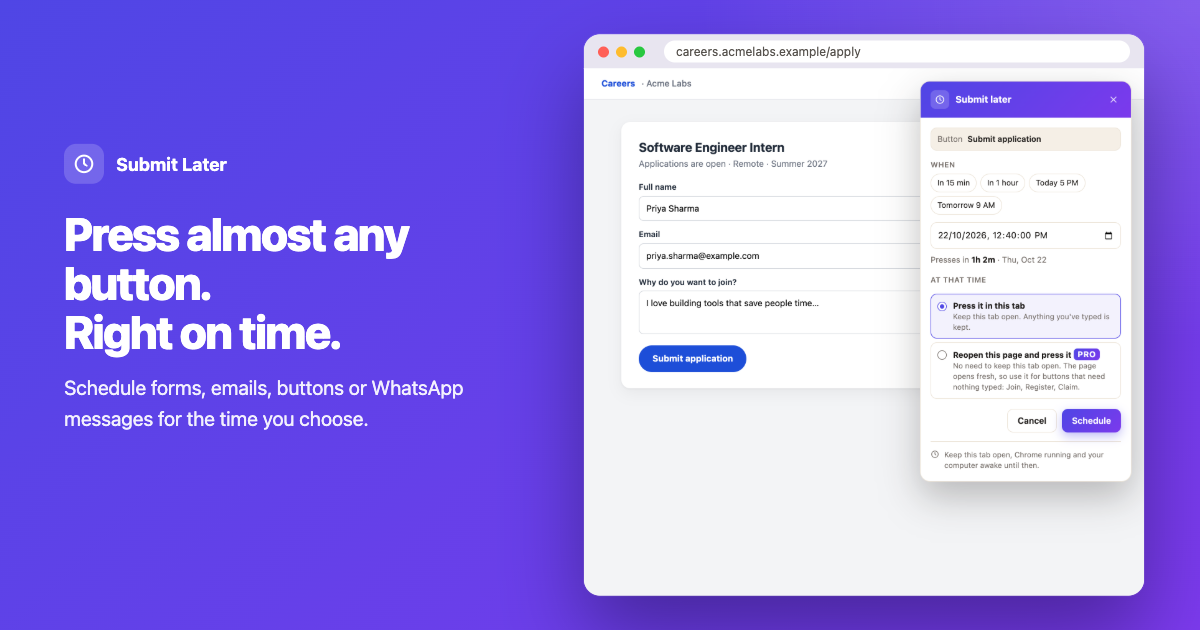
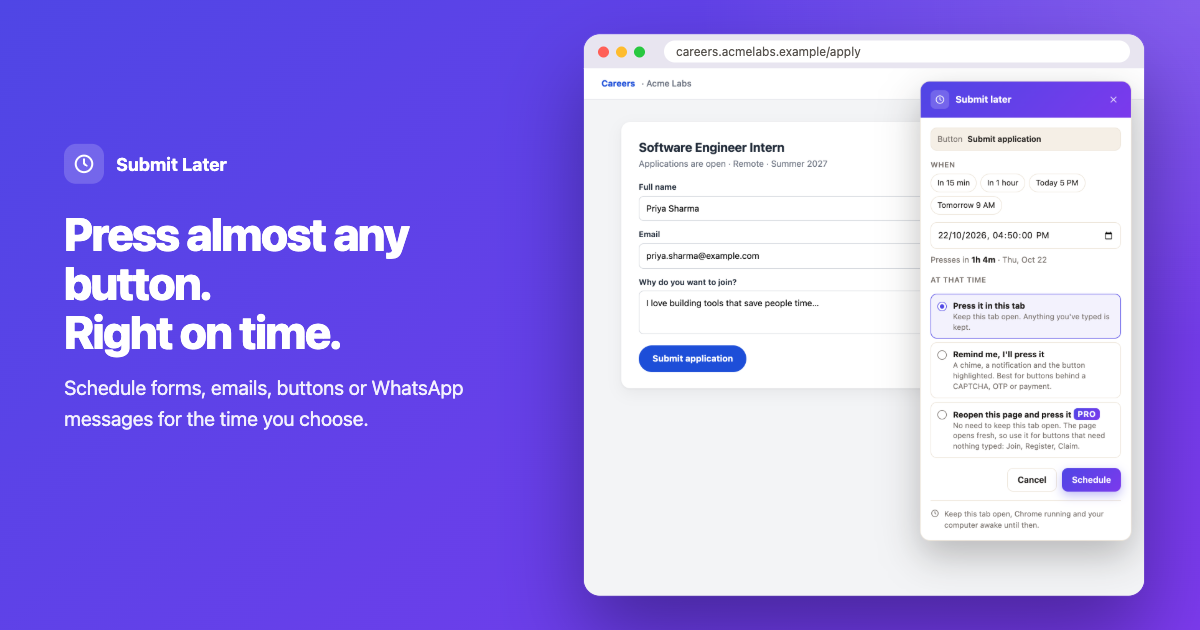
Action Flows (0.8.0): home section, FAQ, pricing bullet, privacy; admin installs note

Changed region(s): [[0.7708, 0.5429, 0.9558, 0.9048], [0.8325, 0.3619, 0.8633, 0.3921]]

diff --git a/pricing.html b/pricing.html
@@ -68,7 +68,7 @@
     <p class="for">For the occasional deadline</p>
     <div class="amount">₹0 <small>forever</small></div>
     <p class="equiv">5 scheduled buttons a month</p>
-    <ul><li><svg viewBox="0 0 24 24" fill="none" stroke="currentColor" stroke-width="2.6" stroke-linecap="round" stroke-linejoin="round"><path d="M20 6L9 17l-5-5"/></svg><span><b>5 scheduled buttons</b> every month</span></li><li><svg viewBox="0 0 24 24" fill="none" stroke="currentColor" stroke-width="2.6" stroke-linecap="round" stroke-linejoin="round"><path d="M20 6L9 17l-5-5"/></svg><span>Press any button in an open tab, to the second</span></li><li><svg viewBox="0 0 24 24" fill="none" stroke="currentColor" stroke-width="2.6" stroke-linecap="round" stroke-linejoin="round"><path d="M20 6L9 17l-5-5"/></svg><span>Real clicks that work on Gmail and web apps</span></li><li><svg viewBox="0 0 24 24" fill="none" stroke="currentColor" stroke-width="2.6" stroke-linecap="round" stroke-linejoin="round"><path d="M20 6L9 17l-5-5"/></svg><span>Keeps your computer awake until the time</span></li><li><svg viewBox="0 0 24 24" fill="none" stroke="currentColor" stroke-width="2.6" stroke-linecap="round" stroke-linejoin="round"><path d="M20 6L9 17l-5-5"/></svg><span>Heads-up 10 minutes early if something is wrong</span></li><li><svg viewBox="0 0 24 24" fill="none" stroke="currentColor" stroke-width="2.6" stroke-linecap="round" stroke-linejoin="round"><path d="M20 6L9 17l-5-5"/></svg><span>Notifications and result history</span></li></ul>
+    <ul><li><svg viewBox="0 0 24 24" fill="none" stroke="currentColor" stroke-width="2.6" stroke-linecap="round" stroke-linejoin="round"><path d="M20 6L9 17l-5-5"/></svg><span><b>5 scheduled buttons</b> every month</span></li><li><svg viewBox="0 0 24 24" fill="none" stroke="currentColor" stroke-width="2.6" stroke-linecap="round" stroke-linejoin="round"><path d="M20 6L9 17l-5-5"/></svg><span><b>Unlimited reminders</b>: a chime when it's time to press it yourself</span></li><li><svg viewBox="0 0 24 24" fill="none" stroke="currentColor" stroke-width="2.6" stroke-linecap="round" stroke-linejoin="round"><path d="M20 6L9 17l-5-5"/></svg><span>Press any button in an open tab, to the second</span></li><li><svg viewBox="0 0 24 24" fill="none" stroke="currentColor" stroke-width="2.6" stroke-linecap="round" stroke-linejoin="round"><path d="M20 6L9 17l-5-5"/></svg><span>Real clicks that work on Gmail and web apps</span></li><li><svg viewBox="0 0 24 24" fill="none" stroke="currentColor" stroke-width="2.6" stroke-linecap="round" stroke-linejoin="round"><path d="M20 6L9 17l-5-5"/></svg><span>Keeps your computer awake until the time</span></li><li><svg viewBox="0 0 24 24" fill="none" stroke="currentColor" stroke-width="2.6" stroke-linecap="round" stroke-linejoin="round"><path d="M20 6L9 17l-5-5"/></svg><span>Heads-up 10 minutes early if something is wrong</span></li><li><svg viewBox="0 0 24 24" fill="none" stroke="currentColor" stroke-width="2.6" stroke-linecap="round" stroke-linejoin="round"><path d="M20 6L9 17l-5-5"/></svg><span>Notifications and result history</span></li></ul>
     <a class="btn alt" href="signup.html" data-plan-link>Create free account</a>
   </div>
   <div class="tier best">
@@ -77,7 +77,7 @@
     <p class="for">Best for regular use</p>
     <div class="amount">₹399 <small>/ year</small></div>
     <p class="equiv">Just ₹33 a month · <b>save 32%</b></p>
-    <ul><li><svg viewBox="0 0 24 24" fill="none" stroke="currentColor" stroke-width="2.6" stroke-linecap="round" stroke-linejoin="round"><path d="M20 6L9 17l-5-5"/></svg><span><b>Unlimited</b> scheduled buttons</span></li><li><svg viewBox="0 0 24 24" fill="none" stroke="currentColor" stroke-width="2.6" stroke-linecap="round" stroke-linejoin="round"><path d="M20 6L9 17l-5-5"/></svg><span><b>Reopen &amp; press</b>: no tab needs to stay open</span></li><li><svg viewBox="0 0 24 24" fill="none" stroke="currentColor" stroke-width="2.6" stroke-linecap="round" stroke-linejoin="round"><path d="M20 6L9 17l-5-5"/></svg><span><b>Repeat</b> every day, weekday or week</span></li><li><svg viewBox="0 0 24 24" fill="none" stroke="currentColor" stroke-width="2.6" stroke-linecap="round" stroke-linejoin="round"><path d="M20 6L9 17l-5-5"/></svg><span><b>WhatsApp Web</b> message scheduler</span></li><li><svg viewBox="0 0 24 24" fill="none" stroke="currentColor" stroke-width="2.6" stroke-linecap="round" stroke-linejoin="round"><path d="M20 6L9 17l-5-5"/></svg><span><b>Wait until ready</b>, with auto-reload</span></li><li><svg viewBox="0 0 24 24" fill="none" stroke="currentColor" stroke-width="2.6" stroke-linecap="round" stroke-linejoin="round"><path d="M20 6L9 17l-5-5"/></svg><span>Everything in Free</span></li><li><svg viewBox="0 0 24 24" fill="none" stroke="currentColor" stroke-width="2.6" stroke-linecap="round" stroke-linejoin="round"><path d="M20 6L9 17l-5-5"/></svg><span>Priority email support</span></li></ul>
+    <ul><li><svg viewBox="0 0 24 24" fill="none" stroke="currentColor" stroke-width="2.6" stroke-linecap="round" stroke-linejoin="round"><path d="M20 6L9 17l-5-5"/></svg><span><b>Unlimited</b> scheduled buttons</span></li><li><svg viewBox="0 0 24 24" fill="none" stroke="currentColor" stroke-width="2.6" stroke-linecap="round" stroke-linejoin="round"><path d="M20 6L9 17l-5-5"/></svg><span><b>Reopen &amp; press</b>: no tab needs to stay open</span></li><li><svg viewBox="0 0 24 24" fill="none" stroke="currentColor" stroke-width="2.6" stroke-linecap="round" stroke-linejoin="round"><path d="M20 6L9 17l-5-5"/></svg><span><b>Action Flows</b>: record a few steps and run them on a schedule</span></li><li><svg viewBox="0 0 24 24" fill="none" stroke="currentColor" stroke-width="2.6" stroke-linecap="round" stroke-linejoin="round"><path d="M20 6L9 17l-5-5"/></svg><span><b>Repeat</b> every day, weekday or week</span></li><li><svg viewBox="0 0 24 24" fill="none" stroke="currentColor" stroke-width="2.6" stroke-linecap="round" stroke-linejoin="round"><path d="M20 6L9 17l-5-5"/></svg><span><b>WhatsApp Web</b> message scheduler</span></li><li><svg viewBox="0 0 24 24" fill="none" stroke="currentColor" stroke-width="2.6" stroke-linecap="round" stroke-linejoin="round"><path d="M20 6L9 17l-5-5"/></svg><span><b>Wait until ready</b>, with auto-reload</span></li><li><svg viewBox="0 0 24 24" fill="none" stroke="currentColor" stroke-width="2.6" stroke-linecap="round" stroke-linejoin="round"><path d="M20 6L9 17l-5-5"/></svg><span>Everything in Free</span></li><li><svg viewBox="0 0 24 24" fill="none" stroke="currentColor" stroke-width="2.6" stroke-linecap="round" stroke-linejoin="round"><path d="M20 6L9 17l-5-5"/></svg><span>Priority email support</span></li></ul>
     <a class="btn primary" href="signup.html?plan=annual" data-plan-link>Choose Pro Annual</a>
   </div>
   <div class="tier">
@@ -86,7 +86,7 @@
     <p class="for">Good for a one-off project</p>
     <div class="amount">₹49 <small>/ month</small></div>
     <p class="equiv">Billed ₹49 for 30 days</p>
-    <ul><li><svg viewBox="0 0 24 24" fill="none" stroke="currentColor" stroke-width="2.6" stroke-linecap="round" stroke-linejoin="round"><path d="M20 6L9 17l-5-5"/></svg><span><b>Unlimited</b> scheduled buttons</span></li><li><svg viewBox="0 0 24 24" fill="none" stroke="currentColor" stroke-width="2.6" stroke-linecap="round" stroke-linejoin="round"><path d="M20 6L9 17l-5-5"/></svg><span><b>Reopen &amp; press</b>: no tab needs to stay open</span></li><li><svg viewBox="0 0 24 24" fill="none" stroke="currentColor" stroke-width="2.6" stroke-linecap="round" stroke-linejoin="round"><path d="M20 6L9 17l-5-5"/></svg><span><b>Repeat</b> every day, weekday or week</span></li><li><svg viewBox="0 0 24 24" fill="none" stroke="currentColor" stroke-width="2.6" stroke-linecap="round" stroke-linejoin="round"><path d="M20 6L9 17l-5-5"/></svg><span><b>WhatsApp Web</b> message scheduler</span></li><li><svg viewBox="0 0 24 24" fill="none" stroke="currentColor" stroke-width="2.6" stroke-linecap="round" stroke-linejoin="round"><path d="M20 6L9 17l-5-5"/></svg><span><b>Wait until ready</b>, with auto-reload</span></li><li><svg viewBox="0 0 24 24" fill="none" stroke="currentColor" stroke-width="2.6" stroke-linecap="round" stroke-linejoin="round"><path d="M20 6L9 17l-5-5"/></svg><span>Everything in Free</span></li><li><svg viewBox="0 0 24 24" fill="none" stroke="currentColor" stroke-width="2.6" stroke-linecap="round" stroke-linejoin="round"><path d="M20 6L9 17l-5-5"/></svg><span>Email support</span></li></ul>
+    <ul><li><svg viewBox="0 0 24 24" fill="none" stroke="currentColor" stroke-width="2.6" stroke-linecap="round" stroke-linejoin="round"><path d="M20 6L9 17l-5-5"/></svg><span><b>Unlimited</b> scheduled buttons</span></li><li><svg viewBox="0 0 24 24" fill="none" stroke="currentColor" stroke-width="2.6" stroke-linecap="round" stroke-linejoin="round"><path d="M20 6L9 17l-5-5"/></svg><span><b>Reopen &amp; press</b>: no tab needs to stay open</span></li><li><svg viewBox="0 0 24 24" fill="none" stroke="currentColor" stroke-width="2.6" stroke-linecap="round" stroke-linejoin="round"><path d="M20 6L9 17l-5-5"/></svg><span><b>Action Flows</b>: record a few steps and run them on a schedule</span></li><li><svg viewBox="0 0 24 24" fill="none" stroke="currentColor" stroke-width="2.6" stroke-linecap="round" stroke-linejoin="round"><path d="M20 6L9 17l-5-5"/></svg><span><b>Repeat</b> every day, weekday or week</span></li><li><svg viewBox="0 0 24 24" fill="none" stroke="currentColor" stroke-width="2.6" stroke-linecap="round" stroke-linejoin="round"><path d="M20 6L9 17l-5-5"/></svg><span><b>WhatsApp Web</b> message scheduler</span></li><li><svg viewBox="0 0 24 24" fill="none" stroke="currentColor" stroke-width="2.6" stroke-linecap="round" stroke-linejoin="round"><path d="M20 6L9 17l-5-5"/></svg><span><b>Wait until ready</b>, with auto-reload</span></li><li><svg viewBox="0 0 24 24" fill="none" stroke="currentColor" stroke-width="2.6" stroke-linecap="round" stroke-linejoin="round"><path d="M20 6L9 17l-5-5"/></svg><span>Everything in Free</span></li><li><svg viewBox="0 0 24 24" fill="none" stroke="currentColor" stroke-width="2.6" stroke-linecap="round" stroke-linejoin="round"><path d="M20 6L9 17l-5-5"/></svg><span>Email support</span></li></ul>
     <a class="btn alt" href="signup.html?plan=monthly" data-plan-link>Choose Pro Monthly</a>
   </div>
 </div>
@@ -106,6 +106,7 @@
         <tr><td>Schedule WhatsApp Web messages</td><td>–</td><td class="yes">✓</td></tr>
         <tr><td>WhatsApp to up to 20 people, with photos and videos</td><td>–</td><td class="yes">✓</td></tr>
         <tr><td>Wait until the button is ready, with auto-reload</td><td>–</td><td class="yes">✓</td></tr>
+        <tr><td>Remind me at the time (chime, notification, button highlighted)</td><td class="yes">Unlimited</td><td class="yes">Unlimited + repeats</td></tr>
       </tbody>
     </table>
   </div>

diff --git a/index.html b/index.html
@@ -208,6 +208,32 @@
       </div>
     </div>
   </div>
+  <div class="spot">
+    <div class="spot-text">
+      <span class="pro-badge">PRO</span>
+      <h3>Action Flows: a few steps, done for you</h3>
+      <p>Some tasks take more than one button. Do it once while Submit Later records the steps, or build them step by step, then let it run at the time you pick: once, every day, or every so often between two times.</p>
+      <ul class="ticks">
+        <li><svg viewBox="0 0 24 24" fill="none" stroke="currentColor" stroke-width="3" stroke-linecap="round" stroke-linejoin="round"><path d="M20 6L9 17l-5-5"/></svg><span>Click, type, choose from a list, tick a box</span></li>
+        <li><svg viewBox="0 0 24 24" fill="none" stroke="currentColor" stroke-width="3" stroke-linecap="round" stroke-linejoin="round"><path d="M20 6L9 17l-5-5"/></svg><span>Simple logic: "Only if…", "Repeat for each option until one works", "Ask me first"</span></li>
+        <li><svg viewBox="0 0 24 24" fill="none" stroke="currentColor" stroke-width="3" stroke-linecap="round" stroke-linejoin="round"><path d="M20 6L9 17l-5-5"/></svg><span>Test runs never press the final button. Passwords and codes are never stored</span></li>
+      </ul>
+    </div>
+    <div class="spot-visual">
+      <div class="mock-ui" role="img" aria-label="An Action Flow in Submit Later: open the page, type today's notes, choose a team, then ask before pressing Submit, every weekday at 6 PM.">
+        <div class="mui-card">
+          <div class="mui-head"><svg viewBox="0 0 24 24" fill="none" stroke="currentColor" stroke-width="2" stroke-linecap="round" stroke-linejoin="round"><circle cx="6" cy="6" r="2.5"/><circle cx="18" cy="18" r="2.5"/><path d="M8.5 6H14a4 4 0 0 1 0 8h-4a4 4 0 0 0 0 8"/></svg> Daily progress report</div>
+          <div class="mui-body">
+            <div class="mui-row"><span class="mui-txt"><b>1. Open</b><small>intranet.example.com/report</small></span></div>
+            <div class="mui-row"><span class="mui-txt"><b>2. Type</b><small>"Finished the home page…" in "Notes"</small></span></div>
+            <div class="mui-row"><span class="mui-txt"><b>3. Choose</b><small>"Design" in "Team"</small></span></div>
+            <div class="mui-row"><span class="mui-txt"><b>4. Click "Submit"</b><small>Asks you first</small></span><span class="mui-tag warn">Ask me</span></div>
+            <div class="mui-time"><svg viewBox="0 0 24 24" fill="none" stroke="currentColor" stroke-width="2" stroke-linecap="round" stroke-linejoin="round"><circle cx="12" cy="12" r="9"/><path d="M12 7v5l3 2"/></svg> <span>Weekdays at <b>6:00 PM</b></span></div>
+          </div>
+        </div>
+      </div>
+    </div>
+  </div>
 </section>
 
 <section id="uses" class="block">
@@ -254,6 +280,7 @@
     <div class="feature"><span class="ic g2"><svg viewBox="0 0 24 24" fill="none" stroke="currentColor" stroke-width="2" stroke-linecap="round" stroke-linejoin="round"><path d="M13 2L3 14h9l-1 8 10-12h-9z"/></svg></span><div><b>Real clicks</b><p>A genuine mouse click, so Gmail, WhatsApp Web and modern web apps respond just like when you click.</p></div></div>
     <div class="feature"><span class="ic g3"><svg viewBox="0 0 24 24" fill="none" stroke="currentColor" stroke-width="2" stroke-linecap="round" stroke-linejoin="round"><path d="M21 12.8A9 9 0 1 1 11.2 3a7 7 0 0 0 9.8 9.8z"/></svg></span><div><b>Keeps your computer awake</b><p>While something is scheduled, your computer won't fall asleep and miss it. Free and Pro.</p></div></div>
     <div class="feature"><span class="ic g5"><svg viewBox="0 0 24 24" fill="none" stroke="currentColor" stroke-width="2" stroke-linecap="round" stroke-linejoin="round"><path d="M6 8a6 6 0 1 1 12 0c0 7 3 9 3 9H3s3-2 3-9"/><path d="M10 21h4"/></svg></span><div><b>A heads-up 10 minutes early</b><p>Signed out? Field empty? Page reloaded? You're warned while there's still time to fix it.</p></div></div>
+    <div class="feature"><span class="ic g4"><svg viewBox="0 0 24 24" fill="none" stroke="currentColor" stroke-width="2" stroke-linecap="round" stroke-linejoin="round"><circle cx="12" cy="13" r="8"/><path d="M12 9v4l2 2M5 3L2 6M22 6l-3-3"/></svg></span><div><b>Or just remind me</b><p>For buttons behind a CAPTCHA, OTP or payment: at the time you get a chime, a notification and the button highlighted, and you press it. Free and unlimited.</p></div></div>
     <div class="feature"><span class="ic g4"><svg viewBox="0 0 24 24" fill="none" stroke="currentColor" stroke-width="2" stroke-linecap="round" stroke-linejoin="round"><path d="M12 22s8-4 8-10V5l-8-3-8 3v7c0 6 8 10 8 10z"/></svg></span><div><b>Private by design</b><p>What you schedule stays on your computer. It only works on the sites you choose. No tracking, no ads.</p></div></div>
   </div>
 </section>
@@ -270,8 +297,8 @@
     <p>Every new account gets 30 days of Pro free. No card, and nothing renews by itself.</p>
   </div>
   <div class="mini-tiers">
-    <div class="mt"><h3>Free</h3><div class="amt">₹0 <small>forever</small></div><p>5 scheduled buttons every month, in an open tab.</p><a class="btn alt" href="signup.html" data-plan-link>Create free account</a></div>
-    <div class="mt best"><span class="rib">Best value</span><h3>Pro Annual</h3><div class="amt">₹399 <small>/ year</small></div><p>Just ₹33 a month. Unlimited, plus WhatsApp, repeats and reopen &amp; press.</p><a class="btn primary" href="signup.html?plan=annual" data-plan-link>Choose Pro Annual</a></div>
+    <div class="mt"><h3>Free</h3><div class="amt">₹0 <small>forever</small></div><p>5 scheduled buttons every month, in an open tab, plus unlimited reminders.</p><a class="btn alt" href="signup.html" data-plan-link>Create free account</a></div>
+    <div class="mt best"><span class="rib">Best value</span><h3>Pro Annual</h3><div class="amt">₹399 <small>/ year</small></div><p>Just ₹33 a month. Unlimited, plus WhatsApp, repeats, reopen &amp; press and Action Flows.</p><a class="btn primary" href="signup.html?plan=annual" data-plan-link>Choose Pro Annual</a></div>
     <div class="mt"><h3>Pro Monthly</h3><div class="amt">₹49 <small>/ month</small></div><p>Every Pro feature for 30 days. Good for a one-off project.</p><a class="btn alt" href="signup.html?plan=monthly" data-plan-link>Choose Pro Monthly</a></div>
   </div>
   <p class="price-foot">Prices in INR, including all taxes. <a href="pricing.html">Compare plans in detail →</a></p>
@@ -284,6 +311,8 @@
     <details><summary>What if my computer goes to sleep?</summary><p>While something is scheduled, Submit Later keeps your computer awake (the screen can still turn off). Closing a laptop lid still puts it to sleep, so leave it open or plugged in with the lid up.</p></details>
     <details><summary>Does it work with WhatsApp?</summary><p>Yes. With Pro you can schedule WhatsApp Web messages to any number or imported contact, once or on repeat: to up to 20 people at a time, several messages each, with photos and videos up to 16 MB. Stay signed in to WhatsApp Web on that computer. <a href="whatsapp-scheduler.html">Read more</a>.</p></details>
     <details><summary>Is my data safe?</summary><p>What you schedule (pages, buttons, messages) stays on your computer. Your account only stores your name, email and plan. See the <a href="privacy.html">privacy policy</a>.</p></details>
+    <details><summary>Can it remind me instead of pressing?</summary><p>Yes. Choose <b>Remind me, I'll press it</b> in the scheduling box. At the time Submit Later plays a chime, shows a notification and highlights the button, and you press it yourself. It's made for buttons behind a CAPTCHA, OTP or payment. One-time reminders are free and unlimited; repeating ones are Pro.</p></details>
+    <details><summary>Can it do a few steps, not just one button?</summary><p>Yes, with Pro's <b>Action Flows</b>. Open the extension, choose <b>Automate steps on a site</b>, and do the task once while it records (or add the steps yourself). You can add "Only if…", "Repeat for each…" and "Ask me" steps, test it safely (a test run never presses the final button), and run it once, daily or every so often between two times. It works only on the sites you allow, never stores passwords or codes, and never solves CAPTCHAs.</p></details>
     <details><summary>What can't it do?</summary><p>It can't solve CAPTCHAs, sign in for you, or bypass a site's rules, and it won't send bulk messages. It presses buttons you could press yourself.</p></details>
   </div>
 </section>

diff --git a/privacy.html b/privacy.html
@@ -83,6 +83,9 @@
   <h2>What the extension reads on web pages</h2>
   <p>It runs only on a tab where you start the button picker yourself, and, with Pro's "reopen and press" or WhatsApp scheduling, on the specific sites you allow when you set that up (Chrome asks you each time; you can remove access in <code>chrome://extensions</code>). It reads just enough of that page to let you pick a button, check that required fields are filled, and press the button at the time you chose. It doesn't read or store what you type into forms.</p>
 
+  <h2>Action Flows (Pro)</h2>
+  <p>If you set up an Action Flow, the extension stores it on your device only: its name, the website, the steps (what to click, the text to type, the options to choose), when it runs and the results of its last 200 runs. The text you enter for a step is typed only into that website and is never sent to us. Passwords, one-time codes, card numbers and ID numbers are never recorded or typed; the flow asks you to fill those in yourself. A flow works only on the websites you allowed for it and pauses if a site shows a CAPTCHA, which it never solves. You can delete every flow and run from the Flows page, and everything is deleted when you uninstall.</p>
+
   <h2>Reliable clicking</h2>
   <p>When "Reliable clicking" is on (the default), the extension uses Chrome's debugger permission only to send a single mouse click to the button you picked, at the time you scheduled, and then detaches immediately. It isn't used to read page content or network traffic.</p>
 
@@ -100,6 +103,9 @@
 
   <h2>This website</h2>
   <p>When you log in, the website keeps your sign-in session in your browser's local storage. It uses Google Analytics, which sets cookies to count visits and see which pages are used (pages visited, rough location, device and browser type). Only the page address without any link codes is sent, and no account details. You can block it with your browser's privacy settings or Google's opt-out add-on (tools.google.com/dlpage/gaoptout). It doesn't use advertising cookies. The sign-up and login pages load Google's sign-in script from Google.</p>
+
+  <h2>Anonymous usage and error reports</h2>
+  <p>Unless you turn off "Send anonymous usage and error reports" in the extension's Settings, the extension sends us a check-in when it's installed or updated and once a day (a random install ID, the extension version and the Chrome version), and a short report when a scheduled press, reopen or WhatsApp send fails or a reminder is missed (the kind of error, our own error text with button names and numbers removed, the version, and the website's domain only). It never sends web addresses, page content, form data, messages, contacts or account details, and it isn't linked to your account. When you uninstall, the page Chrome opens records the uninstall for that install ID. Error reports are deleted after 90 days; an install's check-in record is deleted 90 days after its last check-in. Private addresses (intranets, IP addresses) are never reported.</p>
 
   <h2>Problem reports and reviews</h2>
   <p>A problem report is sent only when you press "Submit problem" in the extension, and you can see everything in it first: your description, any links and email you add, and optional technical details (extension version, browser, language, time zone, settings and the site's name, never the full page address or form contents). If you share a review, your rating, comment and name (or "Anonymous") are stored, and shown publicly only if you allowed it and we approved it. Reports and reviews are stored in Google Workspace tools we operate.</p>

diff --git a/admin.html b/admin.html
@@ -143,7 +143,7 @@
     </section>
 
     <section class="view" data-view="installs" hidden>
-      <div class="view-head"><h1>Installs</h1><p>Anonymous check-ins from the extension (from 0.7.0; users can turn them off).</p></div>
+      <div class="view-head"><h1>Installs</h1><p>Anonymous check-ins from the extension (from 0.8.0; users can turn them off).</p></div>
       <div class="adm-stats" id="i-stats"></div>
       <div class="adm-grid2">
         <div class="card"><div class="card-head"><div><h2>Installs and uninstalls</h2><p>Last 30 days</p></div></div><div class="adm-chart" id="i-chart"></div></div>
